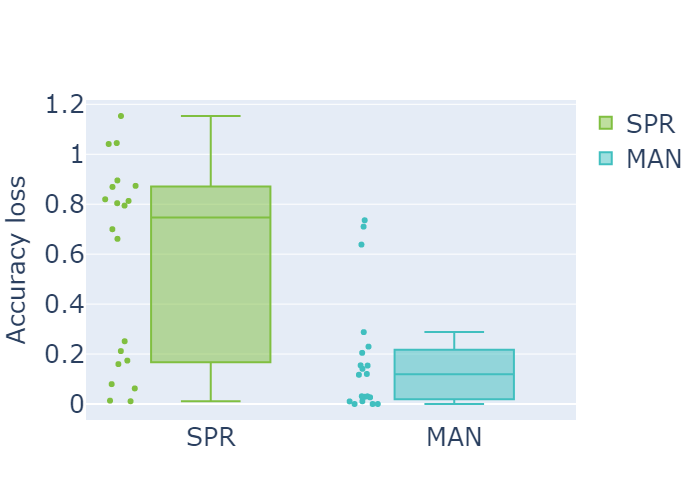
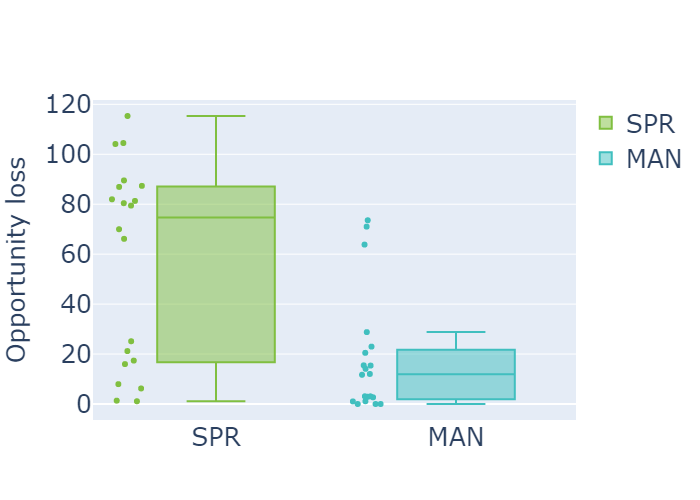
percentage

diff --git a/compare_figure.py b/compare_figure.py
@@ -38,8 +38,8 @@ class figure_compare():
             spr = self.out_[des][1]
             comp = self.out_[des][2]
             for i in range(len(base)):
-                rate[0].append((spr[i]-base[i])/base[i])
-                rate[1].append((comp[i]-base[i])/base[i])
+                rate[0].append(100*(spr[i]-base[i])/base[i])
+                rate[1].append(100*(comp[i]-base[i])/base[i])
         
         color = ['hsl('+str(h)+',50%'+',50%)' for h in np.linspace(0, 180, 3)]
         figure_nume = 'Compare outputs with 10 boxes_hist'
@@ -50,7 +50,7 @@ class figure_compare():
         
         fig.update_layout(
             xaxis = dict(tickfont = dict(size=25)),
-            yaxis = dict(title='Accuracy loss',
+            yaxis = dict(title='Opportunity loss',
                          tickfont = dict(size=25),
                          titlefont = dict(size = 25)),
             legend = dict(font = dict(size = 25))
